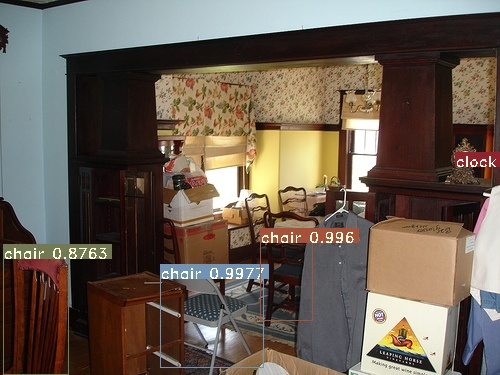
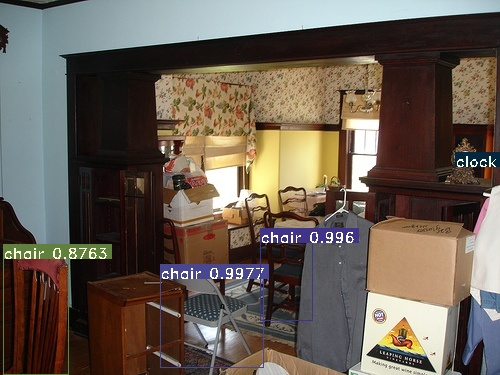
YOLOv5 detection support is added

Changed region(s): [[0.3, 0.5867, 0.72, 0.88], [0.9, 0.3813, 1.0, 0.4693], [0.12, 0.6453, 0.15, 0.6747]]

diff --git a/detect.py b/detect.py
@@ -1,8 +1,11 @@
 from __future__ import division
+
+import glob
 import os
 import cv2
 import json
 import time
+import tqdm
 import torch
 import random
 import argparse
@@ -11,11 +14,12 @@ import numpy as np
 import pickle as pkl
 import os.path as osp
 import torch.nn as nn
+from PIL import Image
 from src.darknet import Darknet
 from src.util import load_classes, prep_image, write_results
 
 
-class DarknetDetector:
+class Darknetv3Detector:
     def __init__(self, images: str, destination: str, cfg_path: str, weights_path: str, resolution: int,
                  confidence: float, nms_thresh: float, CUDA: bool, TORCH: bool):
         # configuration of argument metrics
@@ -47,7 +51,7 @@ class DarknetDetector:
         assert self.inp_dim % 32 == 0
         assert self.inp_dim > 32
 
-        img_path_list, img_name_list = DarknetDetector.read_directory(self.images)
+        img_path_list, img_name_list = Darknetv3Detector.read_directory(self.images)
         print('Number of Images= ', len(img_path_list))
         batch_gen = self.batch_img_load(img_path_list, self.batch_size)
 
@@ -109,7 +113,7 @@ class DarknetDetector:
         list(map(lambda x: self.box_write(x, loaded_ims), output))
         det_names = pd.Series(img_path_list[i]).apply(
             lambda x: "{}/det_{}_{}".format(self.destination,
-                                            self.cfg_path[4:-4],
+                                            self.cfg_path.split('/')[-1][:-4],
                                             x.split("/")[-1]))
         list(map(cv2.imwrite, det_names, loaded_ims))
 
@@ -248,6 +252,39 @@ class DarknetDetector:
                 yield batch_list, im_batches, im_dim_list, loaded_ims
 
 
+class Darknetv5Detector:
+    def __init__(self, images: str, model_size: str, destination: str):
+        model_name = self.parse_model_size(model_size)
+        self.model = torch.hub.load('ultralytics/yolov5', model_name, pretrained=True).eval()
+        self.images = glob.glob(images + "/*.jpg")
+        self.images.extend(glob.glob(images + "/*.png"))
+        self.destination = destination
+
+    @staticmethod
+    def parse_model_size(model_size):
+        if model_size == 'S':
+            model_name = "yolov5s"
+        elif model_size == 'M':
+            model_name = "yolov5m"
+        elif model_size == 'L':
+            model_name = "yolov5l"
+        elif model_size == 'X':
+            model_name = "yolov5x"
+        else:
+            raise Exception("Unknown YOLOv5 size input")
+        return model_name
+
+    def __call__(self):
+        img = self.images.copy()
+        for i, res_img in enumerate(tqdm.tqdm(img)):
+            img = [res_img]
+            results = self.model(img)
+            results.render()
+            image = Image.fromarray(img[0])
+            path = self.destination + '/det_yolov5_' + self.images[i].split('/')[-1]
+            image.save(path)
+
+
 def arg_parse():
     """Detect file argument configuration"""
 
@@ -260,8 +297,10 @@ def arg_parse():
     parser.add_argument("--det", dest='det',
                         help="Image / Directory to store detections to",
                         default="det", type=str)
-    parser.add_argument("--bs", dest="bs", help="Batch size",
-                        default=1, type=int)
+    parser.add_argument("--version", dest="yolov", help="YOLO version: v3 or v5",
+                        default=5, type=int)
+    parser.add_argument("--yolov5_size", dest="yolov5_size", help="Size for the YOLOv5: S, M, L, XL",
+                        default="L", type=str)
     parser.add_argument("--confidence", dest="confidence",
                         help="Object Confidence to filter predictions",
                         default=0.6, type=float)
@@ -296,5 +335,10 @@ if __name__ == '__main__':
         "CUDA": params.CUDA,
         "TORCH": params.TORCH,
     }
-    detector = DarknetDetector(**detector_params)
+    if params.yolov == 3:
+        detector = Darknetv3Detector(**detector_params)
+    elif params.yolov == 5:
+        detector = Darknetv5Detector(params.images, params.yolov5_size, params.det)
+    else:
+        raise Exception("Unknown YOLO version !!")
     detector()

diff --git a/main.py b/main.py
@@ -1,6 +1,6 @@
 import sys
 import json
-from detect import DarknetDetector
+from detect import Darknetv5Detector, Darknetv3Detector
 from train import DarknetTrainer
 
 
@@ -19,6 +19,8 @@ def fetch_parameters():
     detector_params = {
         "images": params["detector_params"]["images_path"],
         "destination": params["detector_params"]["destination_path"],
+        "yolo_version": params["detector_params"]["yolo_version"],
+        "yolov5_size": params["detector_params"]["yolov5_size"],
         "cfg_path": params["detector_params"]["cfg_file_path"],
         "weights_path": params["detector_params"]["weights_file_path"],
         "resolution": params["detector_params"]["resolution"],
@@ -51,8 +53,18 @@ def fetch_parameters():
 def main():
     if sys.argv[1] == "detect":
         detector_params, _, _, _ = fetch_parameters()
-        detector = DarknetDetector(**detector_params)
+        if detector_params["yolo_version"] == 5:
+            detector = Darknetv5Detector(detector_params["images"],
+                                         detector_params["yolov5_size"],
+                                         detector_params["destination"])
+        elif detector_params["yolo_version"] == 3:
+            detector_params.pop("yolo_version")
+            detector_params.pop("yolov5_size")
+            detector = Darknetv3Detector(**detector_params)
+        else:
+            raise Exception("Unknown YOLO version !!")
         detector()
+
     elif sys.argv[1] == "train":
         _, trainer_params, valid_params, train_params = fetch_parameters()
         trainer = DarknetTrainer(**trainer_params)

diff --git a/README.md b/README.md
@@ -65,6 +65,6 @@ For a faster and more convenient training use multiple GPUs.
 ### To Do List
 - [X] Add main file to run the system with parameters
 - [X] Update the user manual
-- [ ] Add YOLOv5 support for detection
-- [ ] Add YOLOv5 support for training
+- [X] Add YOLOv5 support for detection
 - [ ] Add automatic dataset configuration for COCO and VOC datasets
+- [ ] ~~Add YOLOv5 support for training~~
